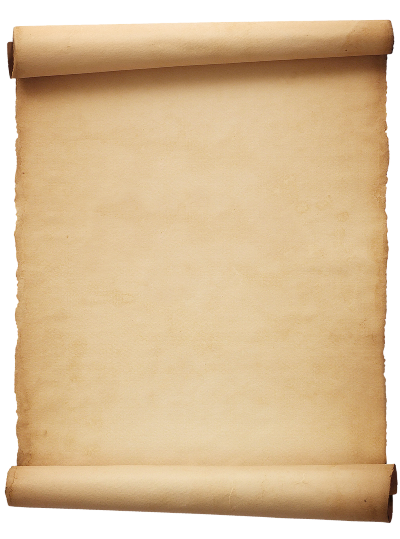
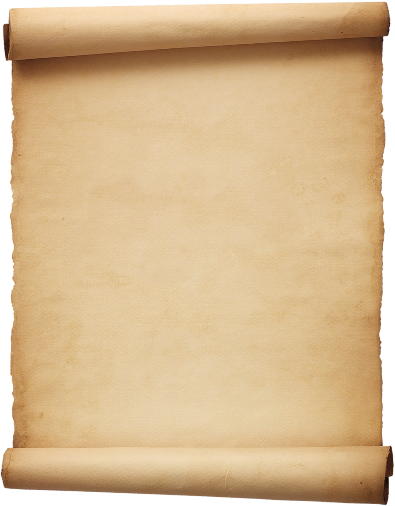
[Fix] Scroll landing size

Changed region(s): [[0.0, 0.0, 1.0, 1.0]]

diff --git a/styles/global.css b/styles/global.css
@@ -1,3 +1,9 @@
+* {
+  box-sizing: border-box;
+  --scroll-w: 395px;
+  --scroll-h: 506px;
+}
+
 html,
 body {
   max-width: 100vw;
@@ -5,9 +11,9 @@ body {
   cursor: none;
 }
 
-@font-face{
-  font-family : "ancient";
-  src : url('../static/fonts/CloisterBlack.ttf');
+@font-face {
+  font-family: "ancient";
+  src: url("../static/fonts/CloisterBlack.ttf");
 }
 
 body {

diff --git a/styles/landing.css b/styles/landing.css
@@ -35,8 +35,8 @@
   background-color: transparent;
   filter: drop-shadow(10px 10px 10px rgba(0, 0, 0, 0.5));
 
-  width: 300px;
-  height: 404px;
+  height: var(--scroll-h);
+  width: var(--scroll-w);
 
   display: flex;
   justify-content: center;
